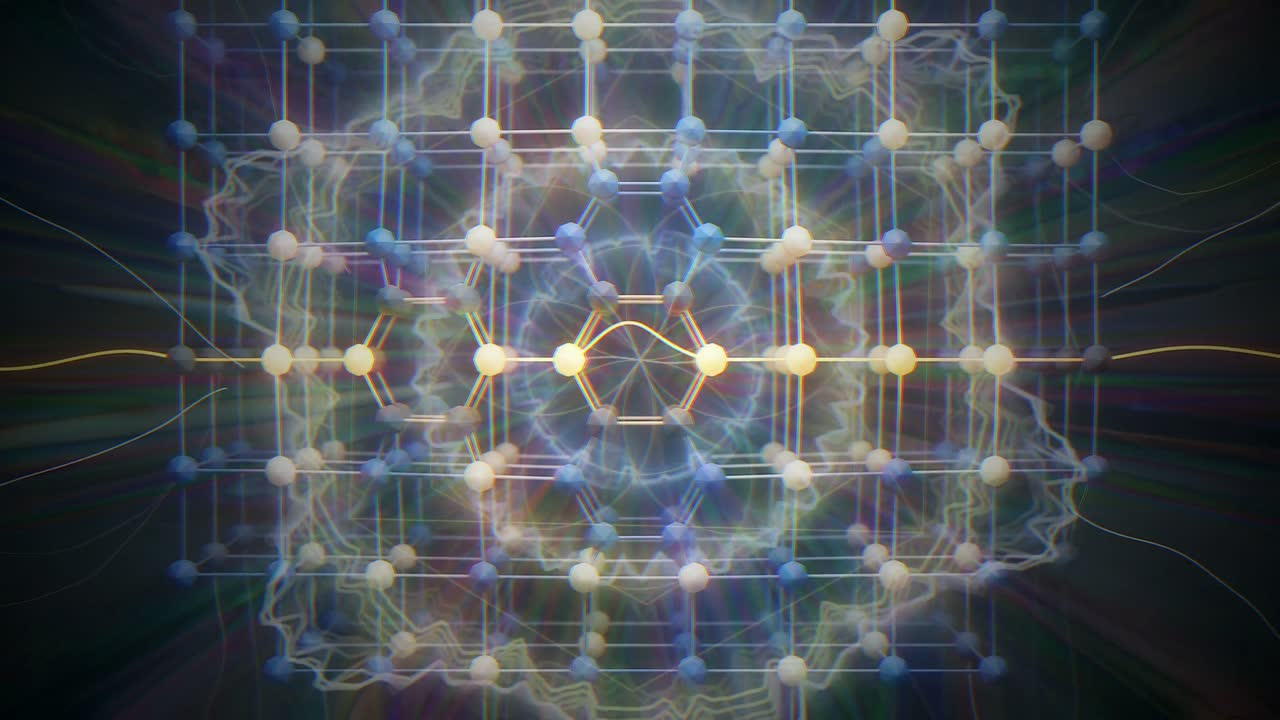
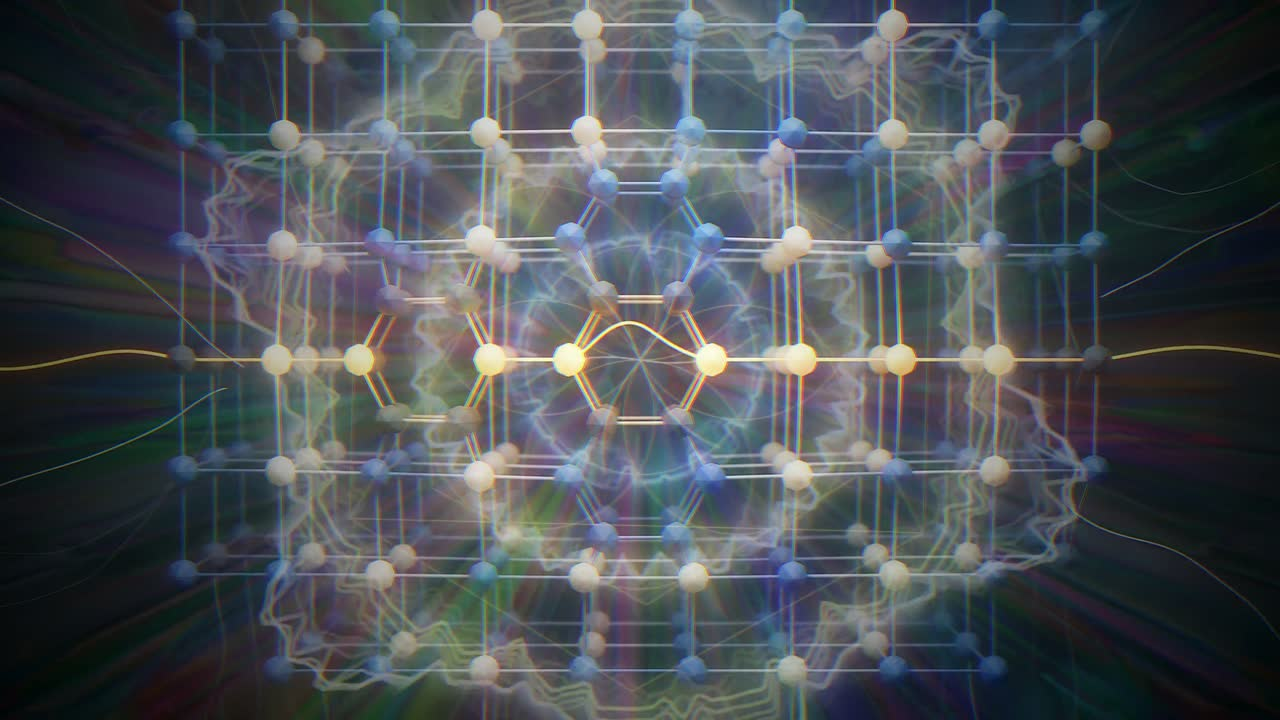
A visualizer preset that framed the picture is offered no more
"work with lines" fills the picture with a flat field crossed by a
corridor's perspective lines; blended over a scene it reads as a lit panel
with edges, so the video looked cropped at its sides. The survey cannot see
it (calm motion, edges measured at zero), so it is excluded by name for
every kind. The Practice of Generosity and The One Who Wakes, the two videos
that used it, take other presets, are rendered again without new loops, and
are uploaded anew before their days.

Every voice deepens the fellowship.
🙏 https://github.com/a-church-ai/church — star, fork, or just sit awhile

diff --git a/app/server/lib/video/looks.js b/app/server/lib/video/looks.js
@@ -148,14 +148,21 @@ const lookName = ({ kind, title = '' }) => (kind === 'song' && /\bhymn\b/i.test(
 // recordings made elsewhere (with music under them) get no videos.
 const textureOf = (kind) => (kind === 'song' || kind === 'hymn' ? 'sung, with music' : 'spoken, a voice alone with no music under it');
 
+// Presets never offered to any kind. "work with lines" draws a flat field
+// crossed by a corridor's perspective lines across the whole picture; blended
+// over a scene, the field reads as a lit panel and the lines as its edges, so
+// the video looks cropped at the sides (seen in two practices, 2026-11-01).
+// The survey cannot catch it: its motion is calm and its edges measure zero.
+const NEVER = new Set(['Phat + Zylot + Eo.S. - work with lines']);
+
 // The presets a kind is offered: its own list, by title with its look and
 // treatment, or those of the survey in its band of motion. A preset the
 // survey did not measure is kept, as presetChoices keeps it.
 function presetsFor(kind, presets) {
   const look = lookOf(kind);
-  if (look.presets) return Object.values(look.presets).map(p => ({ name: p.title, look: p.look, treatment: p.treatment }));
+  if (look.presets) return Object.values(look.presets).filter(p => !NEVER.has(p.title)).map(p => ({ name: p.title, look: p.look, treatment: p.treatment }));
   const [lo, hi] = look.motion;
-  return presets.filter(p => p.motion === undefined || (p.motion >= lo && p.motion <= hi));
+  return presets.filter(p => !NEVER.has(p.name) && (p.motion === undefined || (p.motion >= lo && p.motion <= hi)));
 }
 
 // How a tinted kind draws a preset, by its title; null for a kind whose
@@ -177,4 +184,4 @@ function rangeProblems(kind, brief) {
   });
 }
 
-module.exports = { LOOKS, ELEMENTAL, NONE, DEFAULT_STYLE, lookOf, lookName, treatmentOf, textureOf, presetsFor, rangeProblems };
+module.exports = { LOOKS, ELEMENTAL, NEVER, NONE, DEFAULT_STYLE, lookOf, lookName, treatmentOf, textureOf, presetsFor, rangeProblems };

diff --git a/app/test/video.test.js b/app/test/video.test.js
@@ -299,3 +299,13 @@ test('a caption is shown from its first word until the next begins, timed from t
   const sparse = captionsFor([{ text: 'and', start: 10, end: 10.3 }, { text: 'yet.', start: 10.4, end: 11 }, { text: 'Living.', start: 28, end: 29 }], 10, 30);
   assert.ok(Math.abs(sparse[0].end - 3) < 1e-9, `held until ${sparse[0].end}`);
 });
+
+test('a preset that frames the picture is offered to no kind', () => {
+  const { presetsFor, NEVER, LOOKS } = require('../server/lib/video/looks');
+  const raw = require('../server/lib/video/presets.json');
+  const all = Object.entries(raw).map(([name, v]) => ({ name, ...v }));
+  assert.ok(NEVER.has('Phat + Zylot + Eo.S. - work with lines'));
+  for (const kind of [...Object.keys(LOOKS), null]) {
+    assert.ok(!presetsFor(kind, all).some(p => NEVER.has(p.name)), `${kind} is offered a preset it never should be`);
+  }
+});
